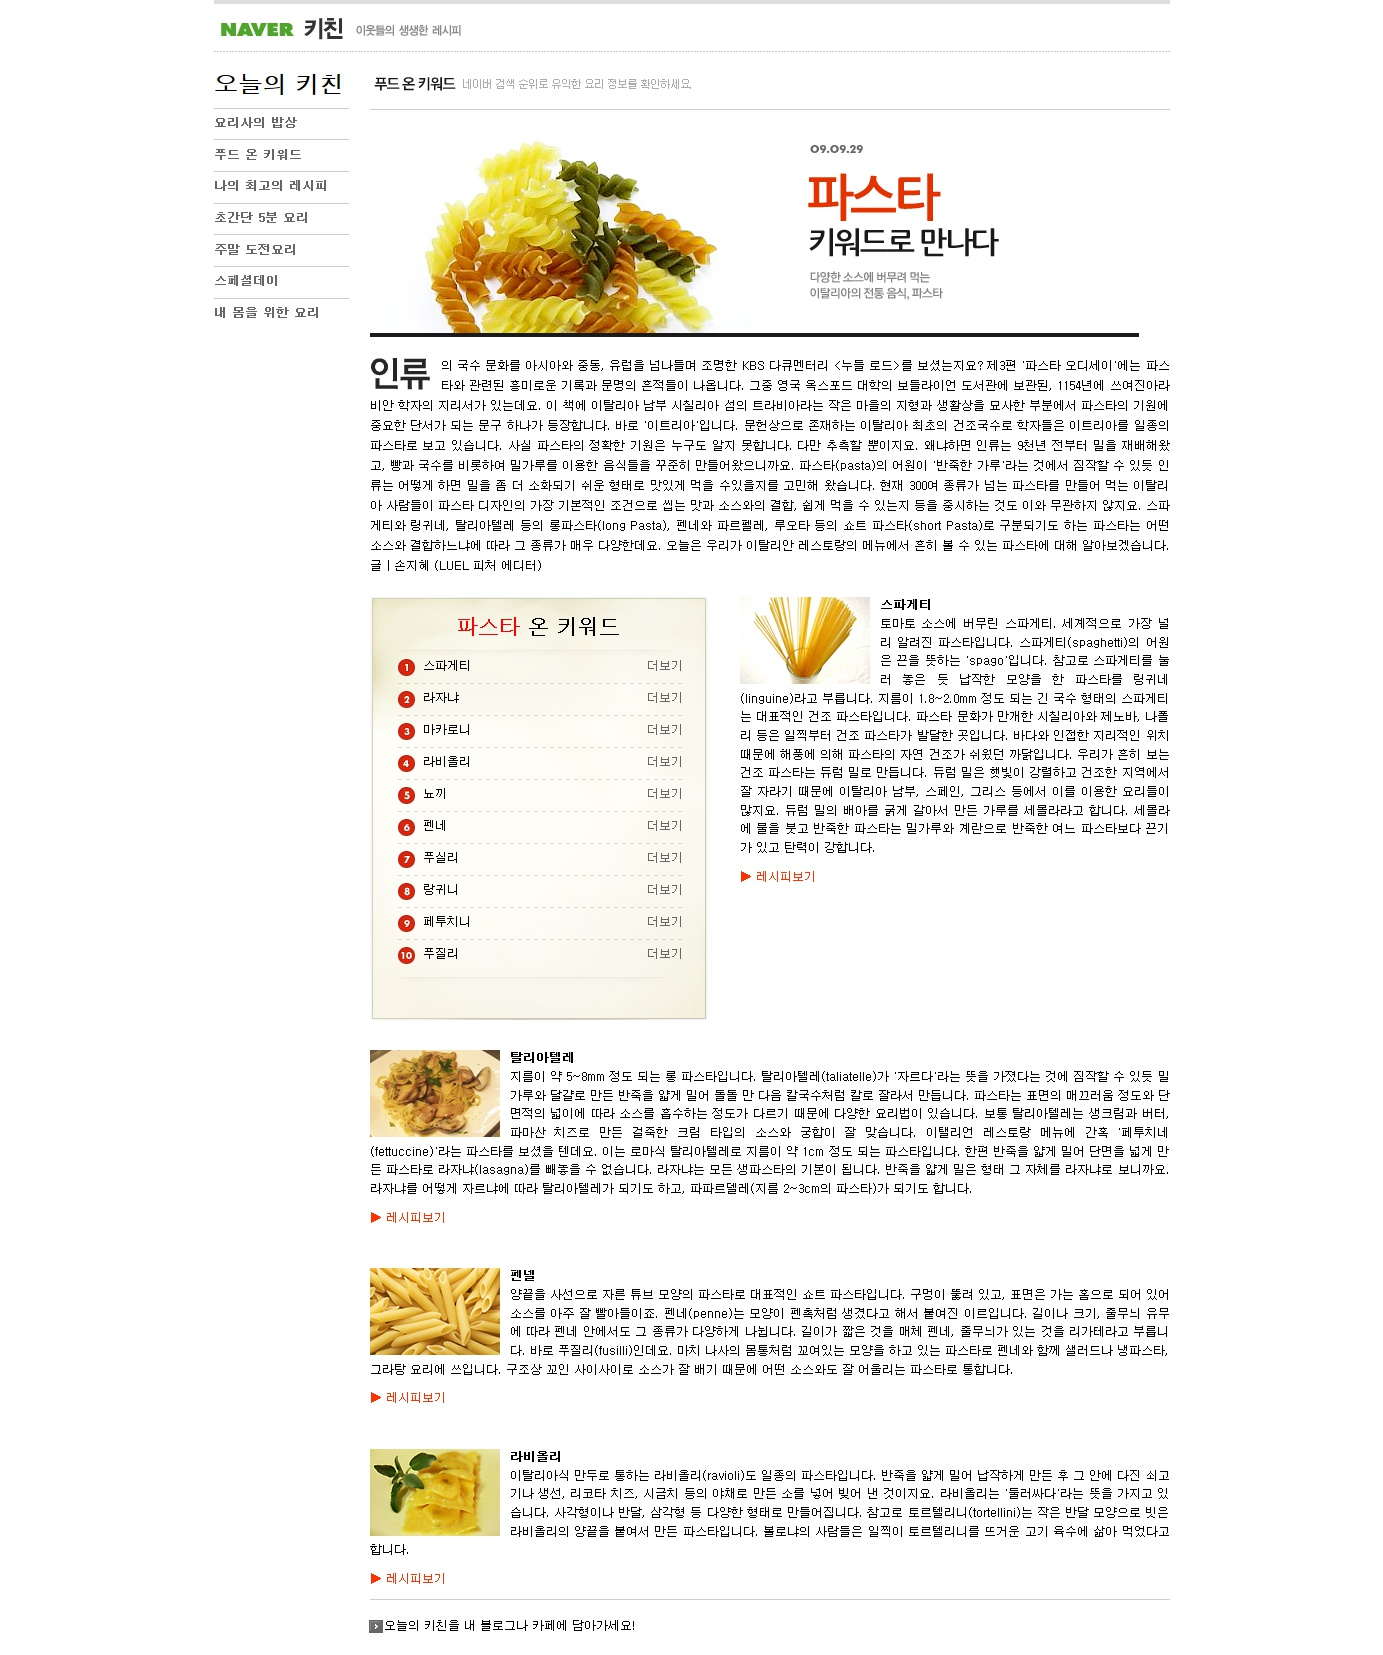
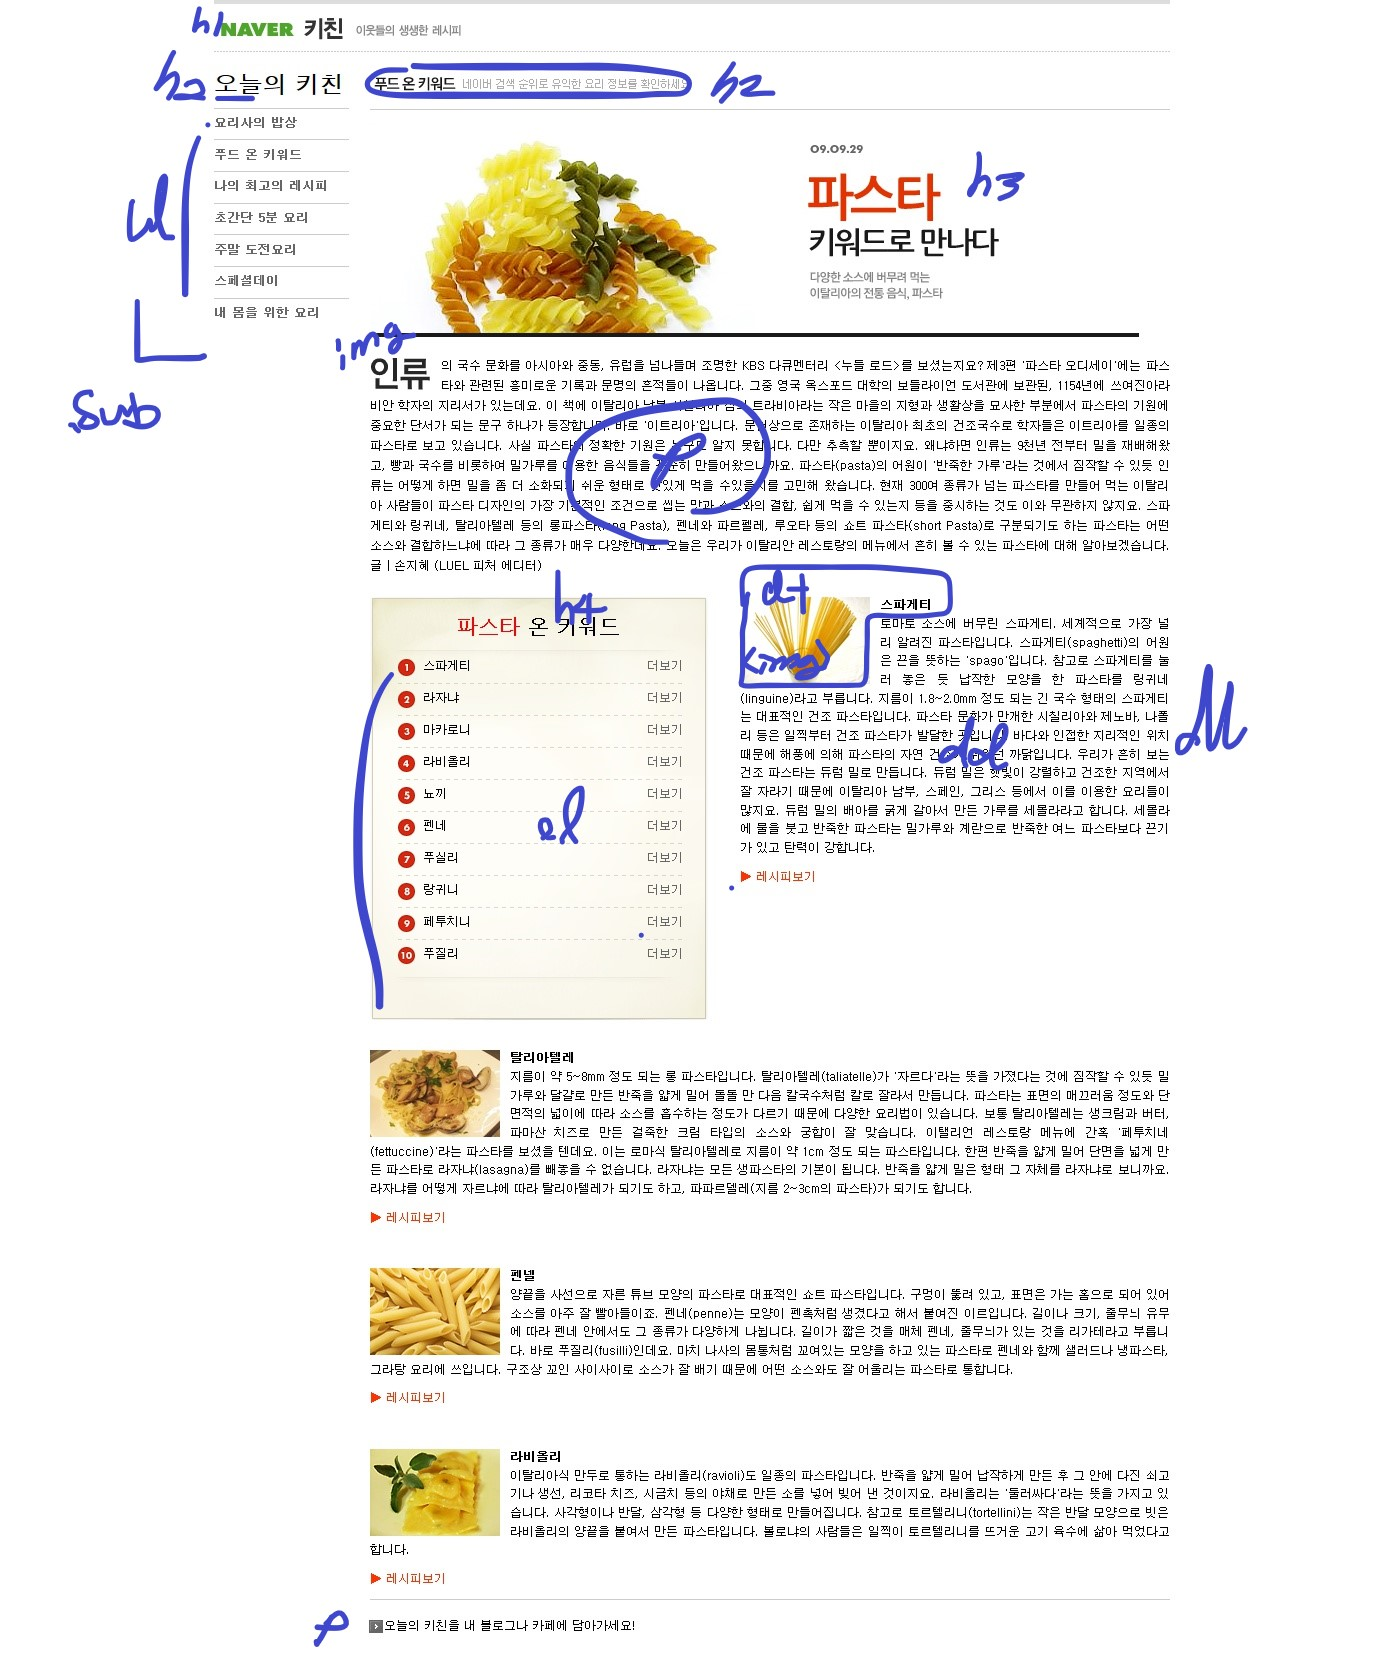
마크업
마크업

diff --git a/서브페이지/파스타/sub.html b/서브페이지/파스타/sub.html
@@ -1,0 +1,106 @@
+<!DOCTYPE html>
+<html lang="ko">
+
+<head>
+    <meta charset="UTF-8">
+    <meta name="viewport" content="width=device-width, initial-scale=1.0">
+    <title>오늘의 키친 | 네이버 키친</title>
+    <!-- <link type="text/css" rel="stylesheet" href="css/main.css" /> -->
+
+</head>
+
+<body>
+    <!-- 스킵네비 -->
+    <div id="skipNavi"><a href="#container">본문바로가기</a></div>
+    <!-- //스킵네비 -->
+    <!-- 전체레이아웃 -->
+    <div id="wrap">
+        <!-- 헤더 -->
+        <div id="header">
+            <h1><a href="index.html"><img src="images/logo.gif" alt="NAVER 키친 이웃들의 생생한 레시피" /></a></h1>
+        </div>
+        <!-- //헤더 -->
+        <!-- 컨테이너 -->
+        <div id="container">
+            <!-- snb -->
+            <div class="snb">
+                <h2>오늘의 키친</h2>
+                <ul class="nav">
+                    <li><a href="#">요리사의 밥상</a></li>
+                    <li><a href="#">푸드 온 키워드</a></li>
+                    <li><a href="#">나의최고의레시피</a></li>
+                    <li><a href="#">초간단5분요리</a></li>
+                    <li><a href="#">주말도전요리</a></li>
+                    <li><a href="#">스페셜데이</a></li>
+                    <li><a href="#">내몸을 위한 요리</a></li>
+                </ul>
+            </div>
+            <!-- //snb -->
+            <!-- 컨텐트 -->
+            <div class="content">
+                <h2><img src="images/title_01.gif" alt="푸드 온 키워드 네이버 검색 순위로 유익한 요리 정보를 확인하세요." /></h2>
+                <h3><img src="images/title.jpg" alt="09. 09. 29 파스타 키워드로 만나다. 다양한 소스에 버무려 먹는 이탈리아의 전통 음식, 파스타."></h3>
+                <p> <img src="images/txt.gif" alt="인류" />의 국수 문화를 아시아와 중동, 유럽을 넘나들며 조명한 KBS 다큐멘터리 <누들 로드>를 보셨는지요? 제3편
+                        '파스타 오디세이'에는 파스타와 관련된 흥미로운 기록과 문명의 흔적들이 나옵니다. 그중 영국 옥스포드 대학의 보들라이언 도서관에 보관된, 1154년에 쓰여진 아라비안 학자의
+                        지리서가 있는데요. 이 책에 이탈리아 남부 시칠리아 섬의 트라비아라는 작은 마을의 지형과 생활상을 묘사한 부분에서 파스타의 기원에 중요한 단서가 되는 문구 하나가
+                        등장합니다. 바로 '이트리아'입니다. 문헌상으로 존재하는 이탈리아 최초의 건조 국수로 학자들은 이트리아를 일종의 파스타로 보고 있습니다. 사실 파스타의 정확한 기원은 누구도
+                        알지 못합니다. 다만 추측할 뿐이지요. 왜냐하면 인류는 9천년 전부터 밀을 재배해왔고, 빵과 국수를 비롯하여 밀가루를 이용한 음식들을 꾸준히 만들어왔으니까요.
+                        파스타(pasta)의 어원이 '반죽한 가루'라는 것에서 짐작할 수 있듯 인류는 어떻게 하면 밀을 좀 더 소화되기 쉬운 형태로 맛있게 먹을 수 있을지를 고민해 왔습니다. 현재
+                        300여 종류가 넘는 파스타를 만들어 먹는 이탈리아 사람들이 파스타 디자인의 가장 기본적인 조건으로 씹는 맛과 소스와의 결합, 쉽게 먹을 수 있는지 등을 중시하는 것도 이와
+                        무관하지 않지요. 스파게티와 링귀네, 탈리아텔레 등의 롱 파스타(long Pasta), 펜네와 파르펠레, 루오타 등의 쇼트 파스타(short Pasta)로 구분되기도 하는
+                        파스타는 어떤 소스와 결합하느냐에 따라 그 종류가 매우 다양한데요. 오늘은 우리가 이탈리안 레스토랑의 메뉴에서 흔히 볼 수 있는 파스타에 대해 알아보겠습니다.
+                        글ㅣ손지혜 (LUEL 피처 에디터)
+                </p>
+                <!-- 레시피 -->
+                <div class="recipe">
+                    <h4><span>파스타</span>온 키워드</h4>
+                    <ol>
+                        <li>스파게티<a href="#">더보기</a></li>
+                        <li>라자냐<a href="#">더보기</a></li>
+                        <li>마카로니<a href="#">더보기</a></li>
+                        <li>라비올리<a href="#">더보기</a></li>
+                        <li>뇨끼<a href="#">더보기</a></li>
+                        <li>펜네<a href="#">더보기</a></li>
+                        <li>푸실리<a href="#">더보기</a></li>
+                        <li>랑귀니<a href="#">더보기</a></li>
+                        <li>페투치니<a href="#">더보기</a></li>
+                        <li>푸질리<a href="#">더보기</a></li>
+                    </ol>
+                </div>
+                <!-- //레시피 -->
+                <!-- 상세 -->
+                <div class="desc">
+                    <dl class="menu1">
+                        <dt><img src="images/01.jpg" alt="스파게티 사진" /><strong>스파게티</strong></dt>
+                        <dd>토마토 소스에 버무린 스파게티. 세계적으로 가장 널리 알려진 파스타입니다. 스파게티(spaghetti)의 어원은 끈을 뜻하는 'spago'입니다. 참고로 스파게티를 눌러 놓은 듯 납작한 모양을 한 파스타를 링귀네(linguine)라고 부릅니다. 지름이 1.8~2.0mm 정도 되는 긴 국수 형태의 스파게티는 대표적인 건조 파스타입니다. 파스타 문화가 만개한 시칠리아와 제노바, 나폴리 등은 일찍부터 건조 파스타가 발달한 곳입니다. 바다와 인접한 지리적인 위치 때문에 해풍에 의해 파스타의 자연 건조가 쉬웠던 까닭입니다. 우리가 흔히 보는 건조 파스타는 듀럼 밀로 만듭니다. 듀럼 밀은 햇빛이 강렬하고 건조한 지역에서 잘 자라기 때문에 이탈리아 남부, 스페인, 그리스 등에서 이를 이용한 요리들이 많지요. 듀럼 밀의 배아를 굵게 갈아서 만든 가루를 세몰라라고 합니다. 세몰라에 물을 붓고 반죽한 파스타는 밀가루와 계란으로 반죽한 여느 파스타보다 끈기가 있고 탄력이 강합니다.  <p class="more" title="스파게티 레시피 보기"><a href="#">▶ 레시피보기</a></p>
+                        </dd>
+                       
+                    </dl>
+                    <dl class="menu2">
+                        <dt><img src="images/02.jpg" alt="탈리아텔레 사진" /><strong>탈리아텔레</strong></dt>
+                        <dd>지름이 약 5~8mm 정도 되는 롱 파스타입니다. 탈리아텔레(taliatelle)가 '자르다'라는 뜻을 가졌다는 것에 짐작할 수 있듯 밀가루와 달걀로 만든 반죽을 얇게 밀어 돌돌 만 다음 칼국수처럼 칼로 잘라서 만듭니다. 파스타는 표면의 매끄러움 정도와 단면적의 넓이에 따라 소스를 흡수하는 정도가 다르기 때문에 다양한 요리법이 있습니다. 보통 탈리아텔레는 생크림과 버터, 파마산 치즈로 만든 걸죽한 크림 타입의 소스와 궁합이 잘 맞습니다. 이탤리언 레스토랑 메뉴에 간혹 '페투치네(fettuccine)'라는 파스타를 보셨을 텐데요. 이는 로마식 탈리아텔레로 지름이 약 1cm 정도 되는 파스타입니다. 한편 반죽을 얇게 밀어 단면을 넓게 만든 파스타로 라자냐(lasagna)를 빼놓을 수 없습니다. 라자냐는 모든 생파스타의 기본이 됩니다. 반죽을 얇게 밀은 형태 그 자체를 라자냐로 보니까요. 라자냐를 어떻게 자르냐에 따라 탈리아텔레가 되기도 하고, 파파르델레(지름 2~3cm의 파스타)가 되기도 합니다. <p class="more" title="탈리아텔레 레시피 보기"><a href="#">▶ 레시피보기</a></p></dd>
+                        
+                    </dl>
+                    <dl class="menu2">
+                        <dt><img src="images/03.jpg" alt="펜넬 사진" /><strong>펜넬</strong></dt>
+                        <dd>양끝을 사선으로 자른 튜브 모양의 파스타로 대표적인 쇼트 파스타입니다. 구멍이 뚫려 있고, 표면은 가는 홈으로 되어 있어 소스를 아주 잘 빨아들이죠. 펜네(penne)는 모양이 펜촉처럼 생겼다고 해서 붙여진 이르입니다. 길이나 크기, 줄무늬 유무에 따라 펜네 안에서도 그 종류가 다양하게 나뉩니다. 길이가 짧은 것을 매체 펜네, 줄무늬가 있는 것을 리가테라고 부릅니다. 바로 푸질리(fusilli)인데요. 마치 나사의 몸통처럼 꼬여있는 모양을 하고 있는 파스타로 펜네와 함께 샐러드나 냉파스타, 그라탕 요리에 쓰입니다. 구조상 꼬인 사이사이로 소스가 잘 배기 때문에 어떤 소스와도 잘 어울리는 파스타로 통합니다. <p class="more" title="펜넬 레시피 보기"><a href="#">▶ 레시피보기</a></p></dd>
+                        
+                    </dl>
+                    <dl class="menu2">
+                        <dt><img src="images/04.jpg" alt="라비올리 사진" /><strong>라비올리</strong></dt>
+                        <dd>이탈리아식 만두로 통하는 라비올리(ravioli)도 일종의 파스타입니다. 반죽을 얇게 밀어 납작하게 만든 후 그 안에 다진 쇠고기나 생선, 리코타 치즈, 시금치 등의 야채로 만든 소를 넣어 빚어 낸 것이지요. 라비올리는 '둘러싸다'라는 뜻을 가지고 있습니다. 사각형이나 반달, 삼각형 등 다양한 형태로 만들어집니다. 참고로 토르텔리니(tortellini)는 작은 반달 모양으로 빗은 라비올리의 양끝을 붙여서 만든 파스타입니다. 볼로냐의 사람들은 일찍이 토르텔리니를 뜨거운 고기 육수에 삶아 먹었다고 합니다.<p class="more" title="라비올리 레시피 보기"><a href="#">▶ 레시피보기</a></p></dd>
+                        
+                    </dl>
+                    <p class="blog">오늘의 키친을 내 블로그나 카페에 담아가세요!</p>
+                </div>
+                <!-- //상세 -->
+            </div>
+            <!-- //컨텐트 -->
+        </div>
+        <!-- //컨테이너 -->
+    </div>
+    <!-- //전체레이아웃 -->
+
+</body>
+
+</html>

diff --git a/서브페이지/파스타/css/reset.css b/서브페이지/파스타/css/reset.css
@@ -1,0 +1,15 @@
+@charset "utf-8";
+/* reset.css */
+html,body{width:100%;height:100%;}
+body,div,dl,dt,dd,ul,li,ol,h1,h2,h3,h4,h5,h6,pre,form,fieldset,input,textarea,p,blockquote,th,td,table{margin:0;padding:0;}
+table{border-collapse:collapse;}
+img,fieldset{border:none;}
+address,caption,cite,code,em,strong,th{font-style:normal;font-weight:normal;}
+ol,ul{list-style:none;}
+caption,th{text-align:left;}
+h1,h2,h3,h4,h5,h6{font-weight:normal;font-size:100%;}
+q:after,q:before{content:"";}
+abbr,acronym{border:none;}
+img,input{vertical-align:middle;}
+hr{display:none;}
+#skipNavi,.blind{position:absolute;left:0;top:0;width:0;height:0;font-size:0;line-height:0;text-indent:-9999px;overflow:hidden;visibility:hidden;}

diff --git a/서브페이지/파스타/css/main.css b/서브페이지/파스타/css/main.css
@@ -1,0 +1,28 @@
+@import url(reset.css);
+/* main.css */
+
+/* common */
+body{font-size:12px;font-family:Dotum,"돋움",sans-serif;color:#666;
+	background:#e4e4e4 url(../images/bgbg.gif) repeat-x 0 78px;}
+a:link,a:visited{text-decoration:none;color:#666;}
+a:hover,a:active,a:focus{text-decoration:underline;color:#000;}
+th,strong{font-weight: bold;}
+
+/* layout */
+
+/* header */
+/* 로고 */
+
+
+
+
+/* container */
+/* snb */
+
+/* content */
+
+
+
+/* 퍼가기 */
+ul.etc{margin-bottom:10px;}
+ul.etc li{display:inline;}
